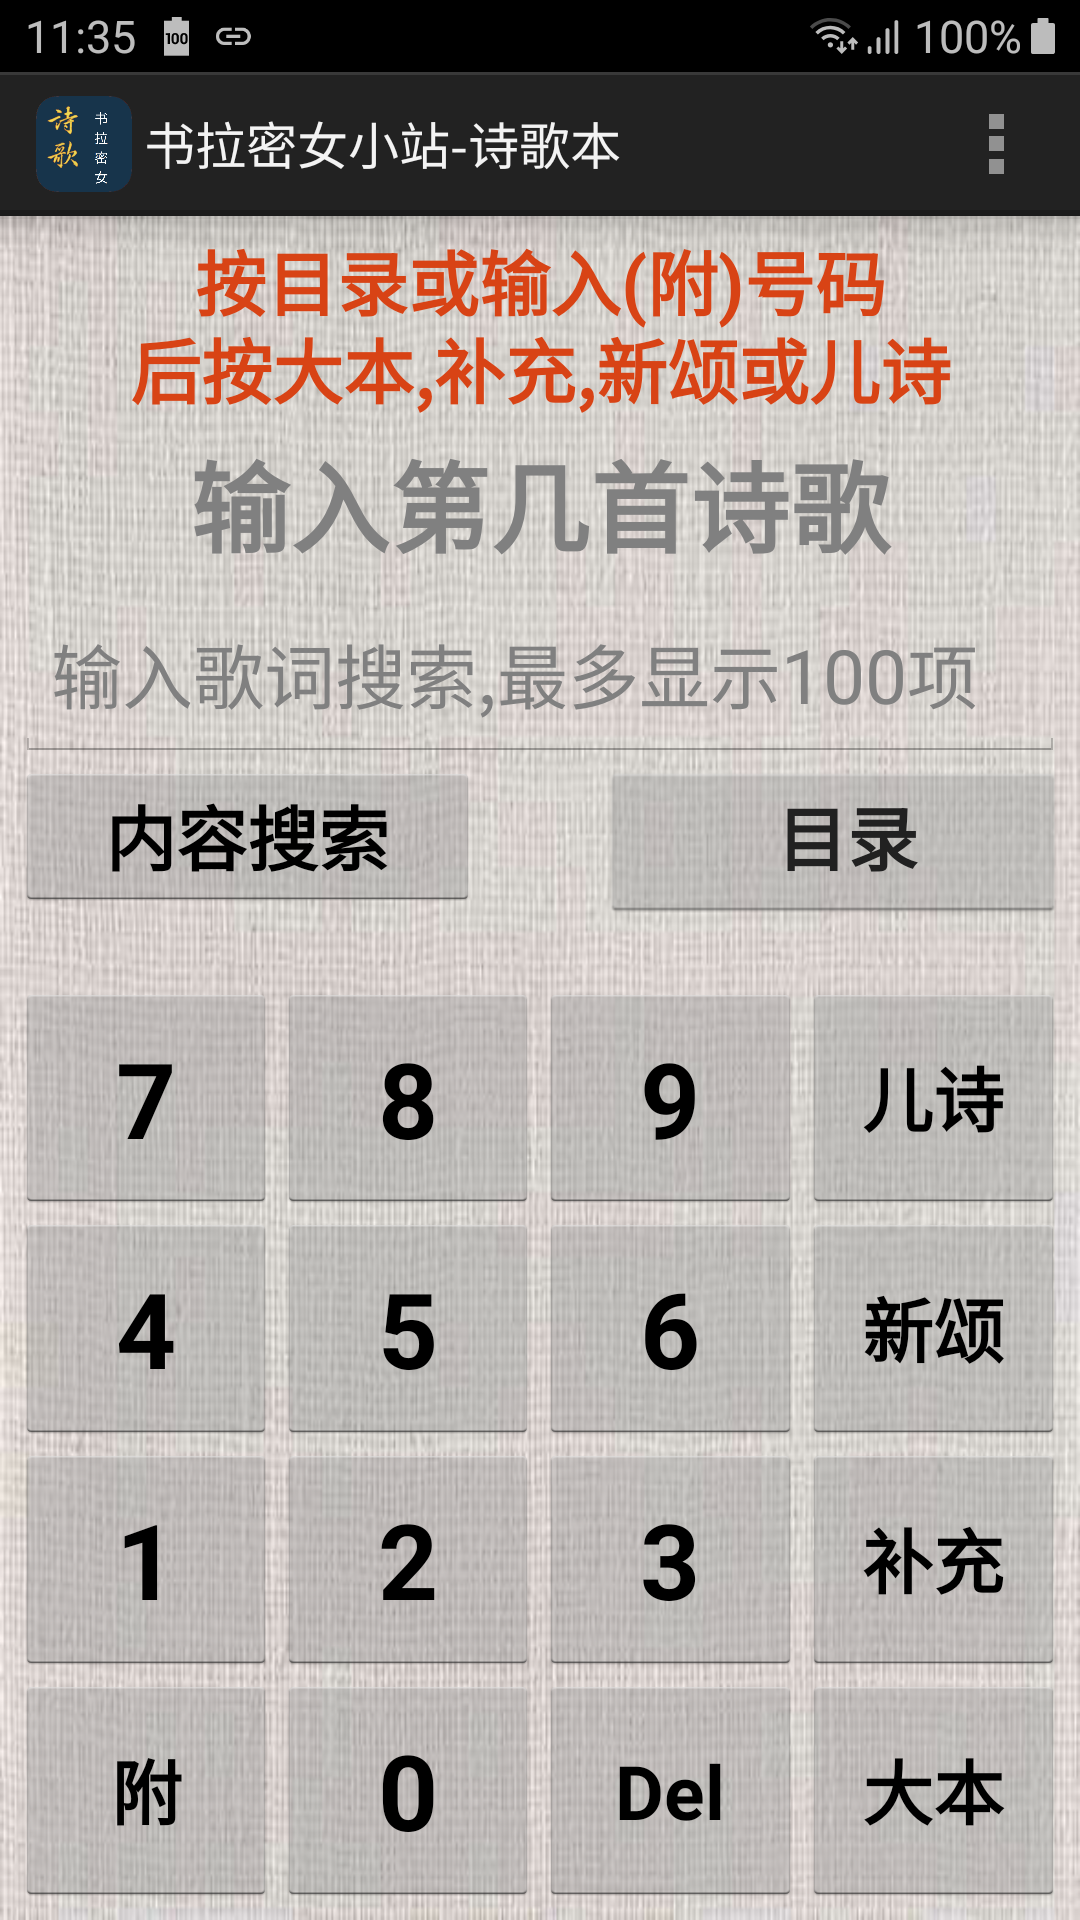
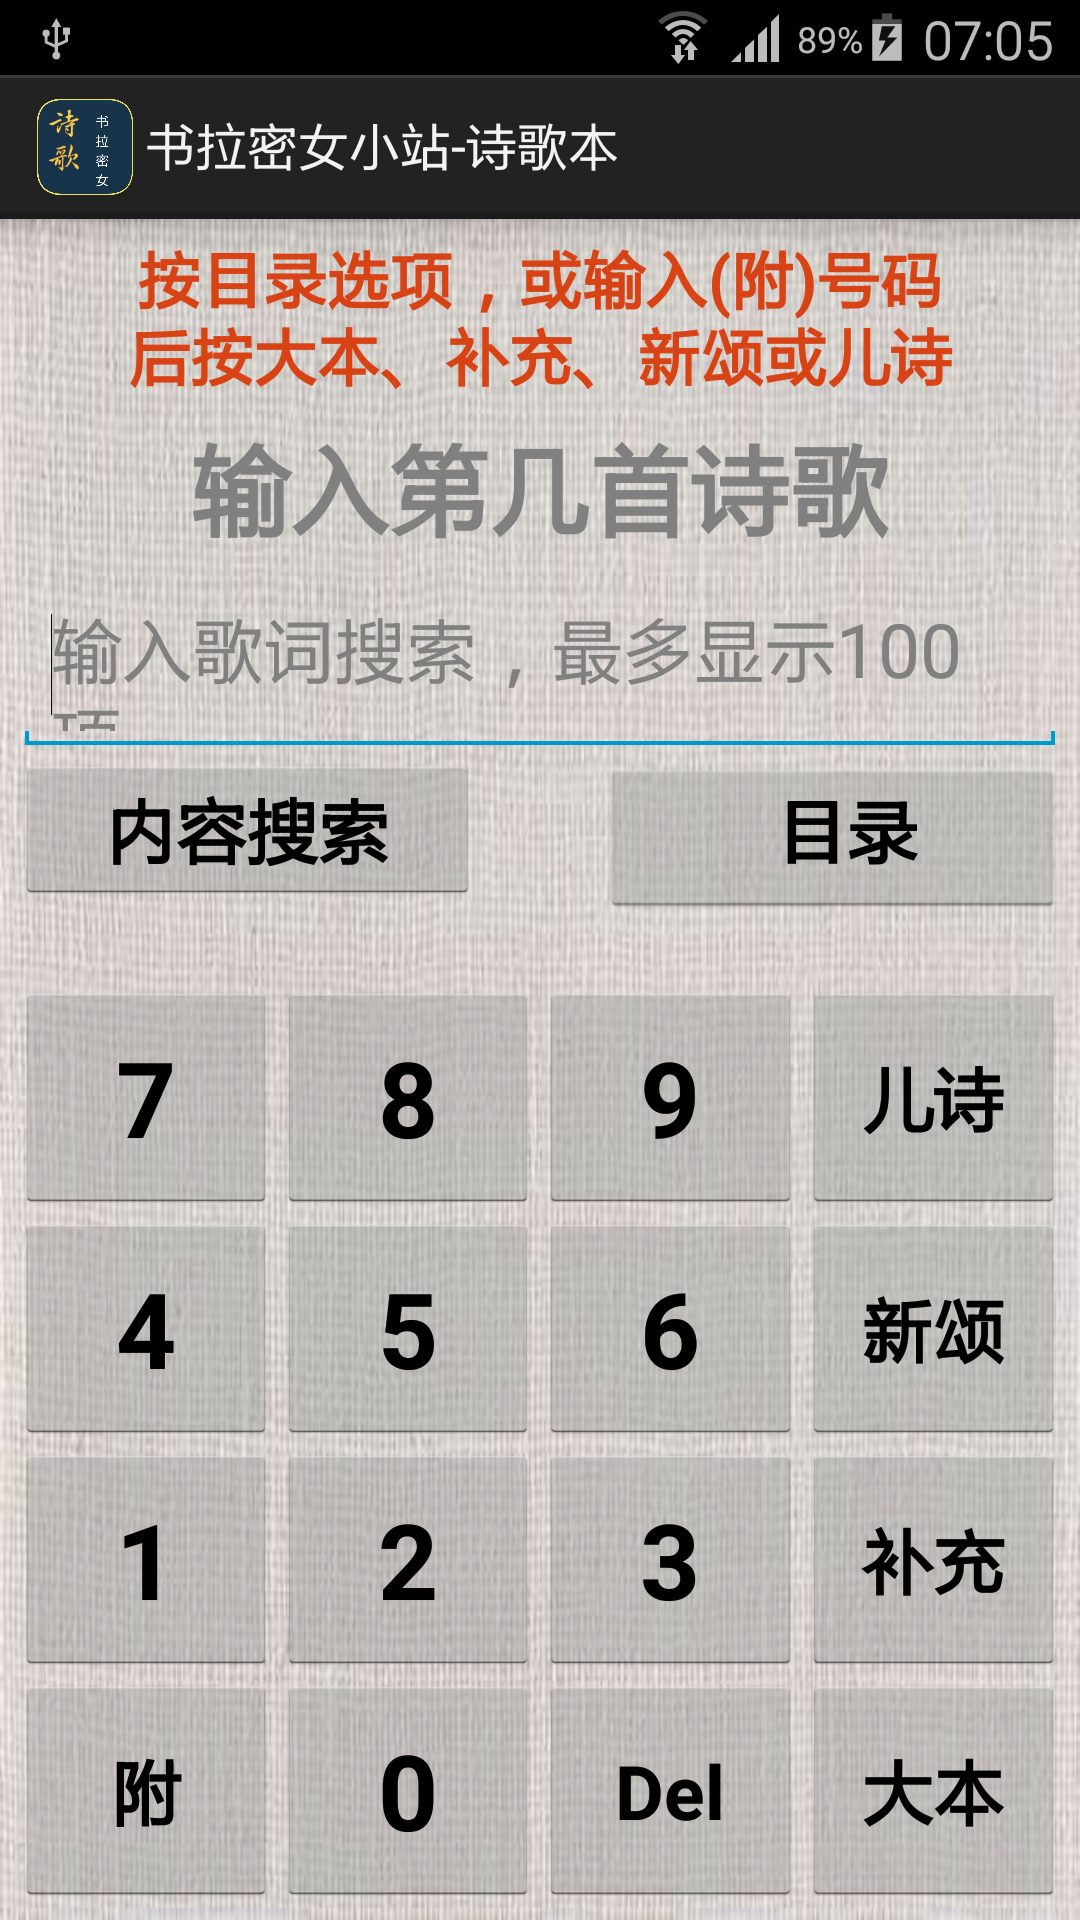
add new features info

diff --git a/hymnchtv/index.html b/hymnchtv/index.html
@@ -43,15 +43,15 @@
 
 		<div class="shadow">
 			<p align="center">
-          <a href="https://github.com/cmeng-git/hymnchtv">
-            <img src="img/hymnchtv.png" alt="HymnchTv" align="inline" width="8%" style="margin:5px 30px 20px 0px"/>
-          </a>
-			    <a href="https://play.google.com/store/apps/details?id=org.cog.hymnchtv&hl=en">
-            <img src="img/google_play.png" alt="Google PlayStore" align="inline" width="20%" style="margin:5px 30px 20px 0px"/>
-			    </a>
-				<a href="https://youtu.be/D8FKFfcUxPw" class="fancybox animated wow flipInX" data-wow-duration="2s">
-            <img src="img/youtube.png" alt="YouTube" align="inline" width="10%" style="margin:5px 30px 20px 0px"/>
-				</a>
+        <a href="https://github.com/cmeng-git/hymnchtv">
+          <img src="img/hymnchtv.png" alt="HymnchTv" align="inline" width="8%" style="margin:5px 30px 20px 0px"/>
+        </a>
+  	    <a href="https://play.google.com/store/apps/details?id=org.cog.hymnchtv&hl=en">
+          <img src="img/google_play.png" alt="Google PlayStore" align="inline" width="20%" style="margin:5px 30px 20px 0px"/>
+        </a>
+		    <a href="https://youtu.be/D8FKFfcUxPw" class="fancybox animated wow flipInX" data-wow-duration="2s">
+          <img src="img/youtube.png" alt="YouTube" align="inline" width="10%" style="margin:5px 30px 20px 0px"/>
+		    </a>
 			</p>
 		</div>
 	</section>
@@ -62,7 +62,7 @@
     <h3>书拉密女小站-诗歌本: 为安卓设计的赞美诗歌词页面浏览器,查看和播放器</h3>
     <ul>
       <li>使用最新的 Android Fragment Pager Adapter 进行平滑滚动更顺畅</li>
-      <li>直接输入诗歌编号以显示歌词；或从目录分类进入："诗歌类别"，"笔画索引"，和"拼音索引"</li>
+      <li>直接输入诗歌编号以显示歌词；或从目录分类进入："诗歌类别"，"笔画索引"，"拼音索引"，和"英中对照"</li>
       <li>给予完整大本詩歌，補充本詩歌，新歌颂咏，及儿童诗歌歌，诗词搜索和选项进入</li>
       <li>最大搜索增加到100项，显示匹配结果的4行完整诗词句</li>
       <li>长按[内容搜索]按钮即可将输入文字词组转换‘他’&#10145;‘祂’</li>
@@ -76,6 +76,7 @@
       <li>诗歌媒体播放以当前状态继续，直到歌曲结束；然后再同步用户新选诗歌编号</li>
       <li>可自我下载并复制媒体文件到预定义的目录（Download/hymnchtv）以用于播放</li>
       <li>用户可选的主界面背景图片，字体大小和字体颜色</li>
+      <li>在线英文歌词显示</li>
       <li>自动检查版本更新，并通知用户任何新的更新以采取措施</li>   
 	</ul>
 	</div>
@@ -93,7 +94,8 @@
 					<h2>书拉密女诗歌本应用程序主用户界面</h2>
 					<div class="media">
           <image src="./img/01.hymnchtv_main.png"/>
-						<p>用户诗歌选择可以使用诗歌编号，目录或内容搜索输入.诗歌编号：输入(附)号码<br/>后按大本,补充,新颂或儿诗</p>
+						<p>用户诗歌选择可以使用诗歌编号，目录选项或简体中文内容搜索输入。长按[内容搜索]按钮即可将输入文字词组转换‘他’&#10145;‘祂’。
+						<br/>诗歌编号：输入(附)号码后按大本，补充，新颂或儿诗。</p>
 					</div>					
 				</li>
 
@@ -101,7 +103,7 @@
 					<h2>用户选择的诗歌曲媒体播放中</h2>
 					<div class="media">
           <image src="./img/02.hymnchtv_hymn_play.png"/>
-						<p>诗歌内容显示和播放：选择播放类型，然后按播放钮。重复点播放钮；播放暂停，或从暂停位置继续播放。长按播放钮后，可再次从头开始播放。用户可选播放重复和速度选项。
+						<p>诗歌内容显示和播放：选择媒体播放类型，然后按播放钮。重复点播放钮；播放暂停，或从暂停位置继续播放。长按播放钮后，可再次从头开始播放或更换媒体播放类型。用户可选播放重复和速度选项。</p>
 					</div>
 				</li>
 
@@ -109,7 +111,7 @@
 					<h2>正在下载用户选择的诗歌媒体内容</h2>
 					<div class="media">
           <image src="./img/03.hymnchtv_hymn_download.png"/>
-						<p>诗歌播放：如果没有可用的本地媒体内容，则应用会自动将所需的媒体从网站上下载。下载媒体后自动开始播放。如果用户单击“取消”，下载将在后台完成。</p>
+						<p>诗歌播放：如果没有可用的本地媒体内容，则应用会自动将所需的媒体从网站上下载并保存到本地存储。下载媒体后自动开始播放。如果用户单击“取消”，下载将在后台完成。</p>
 					</div>					
 				</li>
 
@@ -117,7 +119,7 @@
 					<h2>用户诗歌目录类别索引选项界面</h2>
 					<div class="media">
           <image src="./img/04.hymnchtv_main_toc.png"/>
-						<p>用户可用诗歌目录选择："诗歌类别"，"笔画索引"，和"拼音索引"；后按大本,补充,新颂或儿诗进入</p>
+						<p>用户可用诗歌目录选择："诗歌类别"，"笔画索引"，"拼音索引"，和"英中对照"；后按大本,补充,新颂或儿诗进入</p>
 					</div>
 				</li>
 				
@@ -125,7 +127,7 @@
 					<h2>用户诗歌目录选项-诗歌类别</h2>
 					<div class="media">
           <image src="./img/05.hymnchtv_toc_category.png"/>
-						<p>诗歌目录选择─"诗歌类别"。按选择目录，然后选择歌曲标题进入。</p>
+						<p>诗歌目录选择─"诗歌类别"。按选择诗歌类别选项，然后选择歌曲标题进入。</p>
 					</div>
 				</li>
 
@@ -146,25 +148,49 @@
 				</li>
 
 				<li class="animated wow fadeInDown" data-wow-delay="0.7s">
+					<h2>用户诗歌目录选项-英中对照</h2>
+					<div class="media">
+          <image src="./img/08.hymnchtv_toc_eng2ch.png"/>
+						<p>诗歌目录选择─"英中对照"。按所需诗歌编号范围，然后选择英文歌曲编号进入。</p>
+					</div>
+				</li>
+
+				<li class="animated wow fadeInDown" data-wow-delay="0.7s">
 					<h2>用户诗歌内容搜索结果显示</h2>
 					<div class="media">
-          <image src="./img/08.hymnchtv_content_search.png"/>
-						<p>诗歌内容搜索显示4行完整诗词句。最多搜索项目100项。选择搜索找到之一项目进入。</p>
+          <image src="./img/09.hymnchtv_content_search.png"/>
+						<p>诗歌内容搜索显示4行完整诗词句。最多搜索项目100项。选择搜索找到之一项目进入。注：仅支持简体中文输入搜索。</p>
 					</div>
 				</li>
 
 				<li class="animated wow fadeInDown" data-wow-delay="0.8s">
 					<h2>用户选择诗歌乐谱和歌词文本中显示</h2>
 					<div class="media">
-          <image src="./img/09.hymnchtv_lyrics_text.png"/>
+          <image src="./img/10.hymnchtv_lyrics_text.png"/>
 						<p>诗歌乐谱和歌词文本显示。向上下滚动以阅读内容。手机横向模式时，媒体播放器界面自动隐藏；乐谱和歌词文本，自动加大1.5倍易于阅读。</p>
+					</div>
+				</li>
+
+				<li class="animated wow fadeInDown" data-wow-delay="0.8s">
+					<h2>书拉密女诗歌弹出上下文菜单</h2>
+					<div class="media">
+          <image src="./img/11.hymnchtv_context_menu.png"/>
+						<p>长按诗歌显示画面弹出上下文菜单选项：默认显示/隐藏播放条，显示/隐藏播放条；或[英文歌词]选项，如有相关的英文词歌文本。手机横向模式时，媒体播放器界面自动隐藏</p>
+					</div>
+				</li>
+
+				<li class="animated wow fadeInDown" data-wow-delay="0.8s">
+					<h2>用户选择诗歌其英文词歌文本显示</h2>
+					<div class="media">
+          <image src="./img/12.hymnchtv_lyrics_english.png"/>
+						<p>长按诗歌显示画面弹出上下文菜单选项；然后选择[英文歌词]选项（如果有）；则应用会自动访问在线相关的英文词歌文本。使用[返回键]返回上一屏幕</p>
 					</div>
 				</li>
 
 				<li class="animated wow fadeInDown" data-wow-delay="0.8s">
 					<h2>关于书拉密女诗歌应用程序</h2>
 					<div class="media">
-          <image src="./img/10.hymnchtv_about.png"/>
+          <image src="./img/13.hymnchtv_about.png"/>
 						<p>关于书拉密女诗歌程序界面。选择历史记录以查看应用程序发布记录日志</p>
 					</div>
 				</li>
@@ -172,16 +198,8 @@
 				<li class="animated wow fadeInDown" data-wow-delay="0.8s">
 					<h2>书拉密女诗歌应用程序主菜单选项</h2>
 					<div class="media">
-          <image src="./img/11.hymnchtv_option_menu.png"/>
+          <image src="./img/14.hymnchtv_option_menu.png"/>
 						<p>用户可选的主菜单选项包括墙纸，字体大小，字体颜色，访问网上帮助以及关于书拉密女诗歌应用程序</p>
-					</div>
-				</li>
-
-				<li class="animated wow fadeInDown" data-wow-delay="0.8s">
-					<h2>书拉密女诗歌弹出上下文菜单</h2>
-					<div class="media">
-          <image src="./img/12.hymnchtv_context_menu.png"/>
-						<p>长按诗歌显示画面弹出上下文菜单选项：显示/隐藏播放条或默认显示/隐藏播放条。手机横向模式时，媒体播放器界面自动隐藏</p>
 					</div>
 				</li>
 

diff --git a/atalk/index.html b/atalk/index.html
@@ -44,18 +44,22 @@
 
 		<div class="shadow">
 			<p align="center">
+          <a href="https://github.com/cmeng-git/atalk-android">
+            <img src="img/logo_atalk.png" alt="atalk" align="inline" width="7%" style="margin:5px 30px 20px 0px"/>
+          </a>
           <a href="https://f-droid.org/en/packages/org.atalk.android/">
-            <img src="img/fdroid-logo.png" alt="F-Droid">nbsp;
+            <img src="img/fdroid-logo.png" alt="F-Droid" align="inline" width="18%" style="margin:5px 30px 20px 0px"/>
           </a>
 			    <a href="https://play.google.com/store/apps/details?id=org.atalk.android&hl=en">
-			        <img src="img/google_play.png" alt="Google PlayStore">nbsp;
+            <img src="img/google_play.png" alt="Google PlayStore" align="inline" width="18%" style="margin:5px 30px 20px 0px"/>
 			    </a>
-				<a href="https://www.youtube.com/watch?v=9w5WwphzgBc" class="fancybox animated wow flipInX" data-wow-duration="2s">
-					<img src="img/youtube.png" alt="YouTube">
+				  <a href="https://youtu.be/9w5WwphzgBc">
+            <img src="img/youtube.png" alt="YouTube" align="inline" width="9%" style="margin:5px 30px 20px 0px"/>
 				</a>
 			</p>
 		</div>
-	</section><!--  End billboard  -->
+	</section>
+	<!--  End billboard  -->
 
 	<div class="feature dark">
     <h2>Features</h2>

diff --git a/atalk/css/main.css b/atalk/css/main.css
@@ -14,7 +14,7 @@
    - testimonials
    - blog posts
    - feature
-	- footer
+   - footer
 
 */
 
@@ -73,7 +73,7 @@ body {
     margin: 0 auto;
 }
 
-h1, h2, h3, h4, h5 ,h6{
+h1, h2, h3, h4, h5, h6{
     color: #626262;
     font-family: "raleway-regular", arial;
     letter-spacing: 1px;
@@ -348,11 +348,11 @@ header.dark nav ul li a:hover{
 }
 
 .title h3{
-    color: #9b9b9b;
+    color: #8b8b8b;
     font-family: "raleway-regular";
-    font-size: 14px;
-    margin: 0 0 20px 0;
-    font-weight: normal!important;
+    font-size: 18px;
+    font-weight: bold;
+    margin: 0 0 24px 0;
 }
 
 .title hr.separator{
@@ -528,7 +528,7 @@ header.dark nav ul li a:hover{
 .feature{
     max-width: 920px;
     margin: 0 auto;
-    margin-top: 50px;
+    margin-top: 100px;
 }
 
 .feature ul{
@@ -537,10 +537,10 @@ header.dark nav ul li a:hover{
 
 .feature ul li{
     margin-left: 20px;
-    margin-bottom: 8px;
+    margin-bottom: 10px;
     color: #424242;
     font-family: "raleway-regular", arial;
-    font-size: 14px;
+    font-size: 16px;
 }
 
 .feature ul li p{

diff --git a/hymnchtv/css/main.css b/hymnchtv/css/main.css
@@ -14,7 +14,7 @@
    - testimonials
    - blog posts
    - feature
-	 - footer
+   - footer
 
 */
 
@@ -126,6 +126,7 @@ h5, h6          { font-weight: bolder }
     -o-background-size: cover;
 }
 
+
 .billboard .shadow{
     position: absolute;
     width: 100%;
@@ -195,6 +196,8 @@ h5, h6          { font-weight: bolder }
     background: #5d5d5d;
 }
 
+
+
 /*    header    */
 header{
     width: 100%;
@@ -248,6 +251,8 @@ header.dark nav ul li a{
 header.dark nav ul li a:hover{
     color: #919191;
 }
+
+
 
 /*    Services    */
 .services ul{
@@ -326,6 +331,7 @@ header.dark nav ul li a:hover{
     background: url('../img/play_btn.png') no-repeat;
     margin-top: 40px;
 }
+
 
 
 .title{
@@ -439,6 +445,8 @@ header.dark nav ul li a:hover{
     font-weight: normal;
 }
 
+
+
 /*    blog posts    */
 .blog_posts{
     margin-top: 20px;
@@ -470,8 +478,8 @@ header.dark nav ul li a:hover{
 
 .blog_posts ul li .media{
     position: relative;
-	  width: 240px;
-    height: 450px;
+	width: 240px;
+    height: 480px;
     margin-bottom: 110px;
 }
 
